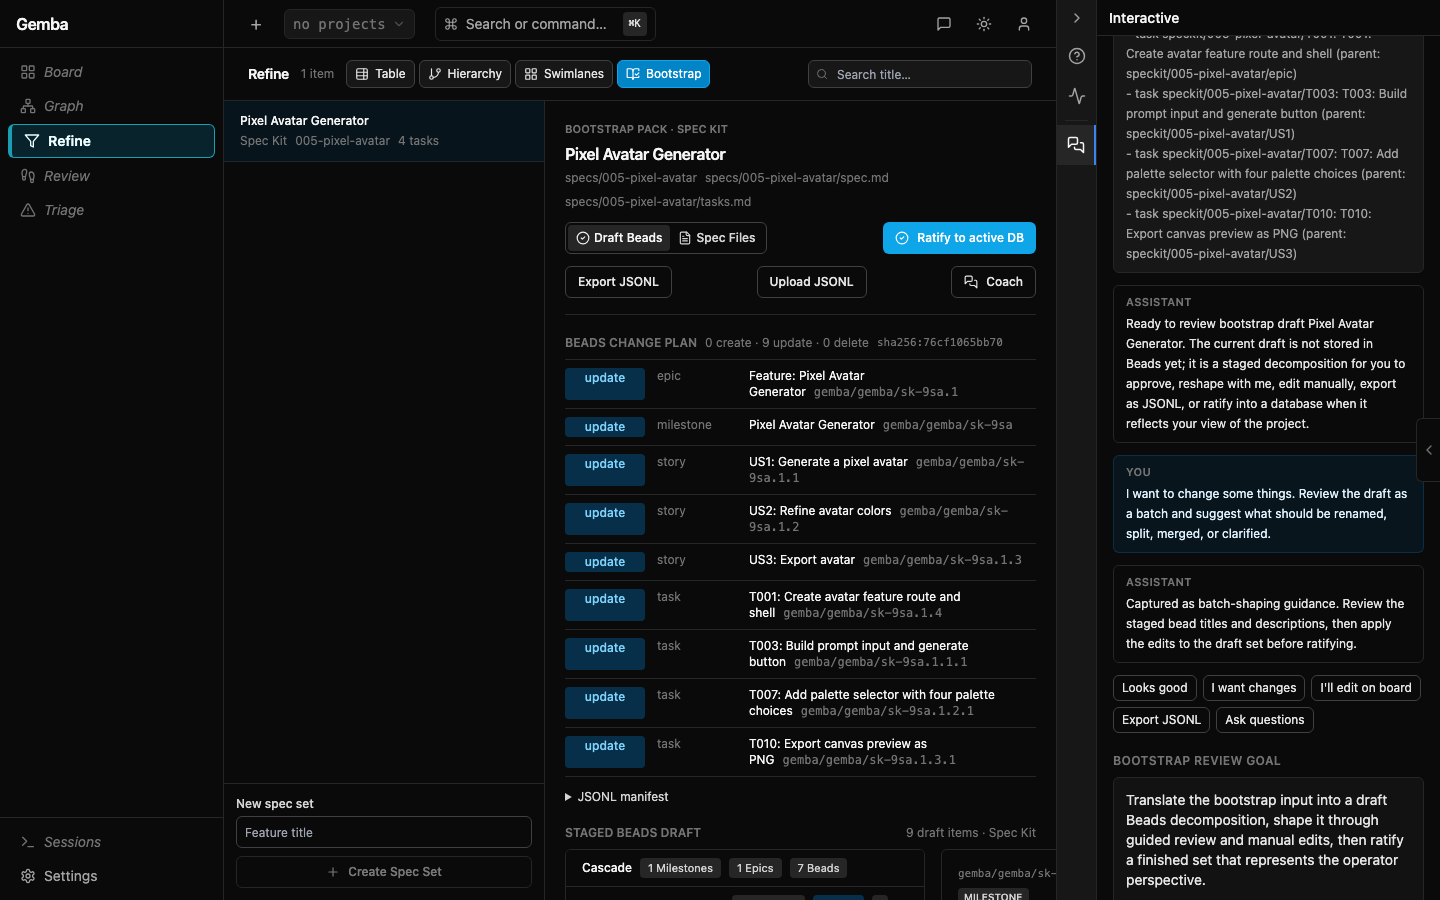
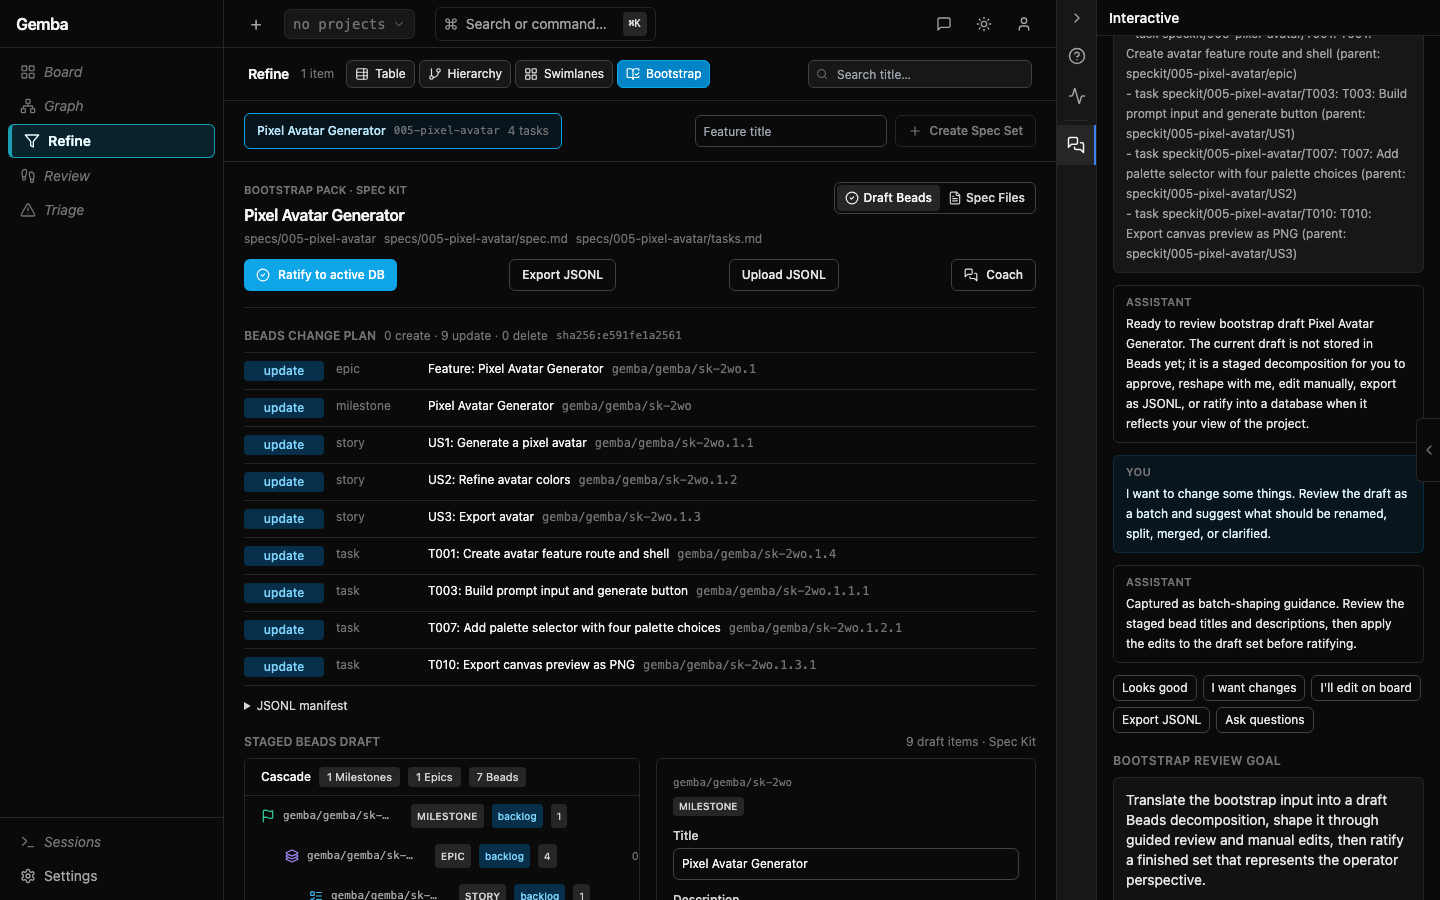
Tighten Spec Kit bootstrap layout

diff --git a/web/src/pages/RefinePage.tsx b/web/src/pages/RefinePage.tsx
@@ -619,18 +619,11 @@ function SpecKitPanel({
   if (error) return <RefineError message={error} />;
   if (!configured) {
     return (
-      <div className="grid h-full min-h-0 grid-cols-[minmax(220px,320px)_1fr] divide-x divide-neutral-200 dark:divide-neutral-800" data-testid="spec-kit-panel">
-        <SpecKitSidebar
-          features={[]}
-          selectedID=""
-          onSelect={setSelectedID}
-          newFeatureTitle={newFeatureTitle}
-          onNewFeatureTitle={setNewFeatureTitle}
-          onCreateFeature={createNewFeature}
-          creatingFeature={createFeature.isPending}
-          canCreateFeature={false}
-        />
-        <section className="flex min-h-0 items-center justify-center p-6" data-testid="spec-kit-empty">
+      <div className="h-full min-h-0" data-testid="spec-kit-panel">
+        <section
+          className="flex h-full min-h-0 items-center justify-center p-6"
+          data-testid="spec-kit-empty"
+        >
           <div className="max-w-md text-xs text-neutral-600 dark:text-neutral-300">
             <div className="text-[11px] font-semibold uppercase text-neutral-500">
               Bootstrap pack · Spec Kit
@@ -664,10 +657,10 @@ function SpecKitPanel({
 
   return (
     <div
-      className="grid h-full min-h-0 grid-cols-[minmax(220px,320px)_1fr] divide-x divide-neutral-200 dark:divide-neutral-800"
+      className="flex h-full min-h-0 flex-col"
       data-testid="spec-kit-panel"
     >
-      <SpecKitSidebar
+      <SpecKitFeatureStrip
         features={features}
         selectedID={selected?.id ?? ''}
         onSelect={setSelectedID}
@@ -679,7 +672,7 @@ function SpecKitPanel({
         canCreateFeature
       />
       {selected ? (
-        <section className="min-h-0 overflow-auto p-5" data-testid="spec-kit-detail">
+        <section className="min-h-0 flex-1 overflow-auto p-5" data-testid="spec-kit-detail">
           <header className="flex flex-wrap items-start justify-between gap-3 border-b border-neutral-200 pb-4 dark:border-neutral-800">
             <div>
               <div className="text-[11px] font-semibold uppercase text-neutral-500">
@@ -851,14 +844,14 @@ function SpecKitPanel({
           )}
         </section>
       ) : files.length > 0 ? (
-        <section className="min-h-0 overflow-auto p-5" data-testid="spec-kit-detail">
+        <section className="min-h-0 flex-1 overflow-auto p-5" data-testid="spec-kit-detail">
           <header className="border-b border-neutral-200 pb-4 dark:border-neutral-800">
             <div className="text-[11px] font-semibold uppercase text-neutral-500">
               Bootstrap pack · Spec Kit
             </div>
             <h2 className="mt-1 text-base font-semibold tracking-tight">Workspace Files</h2>
             <div className="mt-1 text-xs text-neutral-500">
-              Create a feature spec set from the left rail when you are ready to generate draft Beads.
+              Create a feature spec set from the toolbar when you are ready to generate draft Beads.
             </div>
           </header>
           <SpecKitFileEditor
@@ -880,17 +873,17 @@ function SpecKitPanel({
         </section>
       ) : (
         <section
-          className="flex min-h-0 items-center justify-center p-6 text-xs text-neutral-500"
+          className="flex min-h-0 flex-1 items-center justify-center p-6 text-xs text-neutral-500"
           data-testid="spec-kit-empty"
         >
-          No Spec Kit features match the search. Create a new spec set from the left rail.
+          No Spec Kit features match the search. Create a new spec set from the toolbar.
         </section>
       )}
     </div>
   );
 }
 
-function SpecKitSidebar({
+function SpecKitFeatureStrip({
   features,
   selectedID,
   onSelect,
@@ -912,8 +905,8 @@ function SpecKitSidebar({
   canCreateFeature: boolean;
 }) {
   return (
-    <aside className="flex min-h-0 flex-col">
-      <div className="min-h-0 flex-1 overflow-auto">
+    <div className="flex flex-wrap items-center gap-2 border-b border-neutral-200 px-5 py-3 text-xs dark:border-neutral-800">
+      <div className="flex min-w-0 flex-1 items-center gap-2 overflow-x-auto">
         {features.map((feature) => (
           <button
             key={feature.id}
@@ -922,27 +915,20 @@ function SpecKitSidebar({
             data-active={selectedID === feature.id}
             onClick={() => onSelect(feature.id)}
             className={cn(
-              'block w-full border-b border-neutral-200 px-4 py-3 text-left text-xs hover:bg-neutral-100 dark:border-neutral-800 dark:hover:bg-neutral-900',
-              selectedID === feature.id && 'bg-sky-50 dark:bg-sky-950/30'
+              'inline-flex h-9 shrink-0 items-center gap-2 rounded-md border border-neutral-300 px-3 text-left text-xs text-neutral-700 hover:bg-neutral-100 dark:border-neutral-700 dark:text-neutral-200 dark:hover:bg-neutral-900',
+              selectedID === feature.id &&
+                'border-sky-600 bg-sky-50 text-sky-800 dark:border-sky-500 dark:bg-sky-950/30 dark:text-sky-200'
             )}
           >
-            <div className="font-medium text-neutral-950 dark:text-neutral-100">
-              {feature.title}
-            </div>
-            <div className="mt-1 flex flex-wrap gap-2 text-neutral-500">
-              <span>Spec Kit</span>
-              <span>{feature.id}</span>
-              <span>{feature.task_count} tasks</span>
-              {feature.parallel_task_count > 0 && (
-                <span>{feature.parallel_task_count} parallel</span>
-              )}
-            </div>
+            <span className="max-w-[16rem] truncate font-medium">{feature.title}</span>
+            <span className="font-mono text-[11px] text-neutral-500">{feature.id}</span>
+            <span className="text-neutral-500">{feature.task_count} tasks</span>
           </button>
         ))}
       </div>
-      <div className="border-t border-neutral-200 p-3 dark:border-neutral-800">
-        <label className="block text-xs">
-          <span className="font-medium text-neutral-700 dark:text-neutral-300">New spec set</span>
+      <div className="flex shrink-0 items-center gap-2">
+        <label className="flex items-center gap-2">
+          <span className="sr-only">New spec set</span>
           <input
             data-testid="spec-kit-new-title"
             value={newFeatureTitle}
@@ -952,7 +938,7 @@ function SpecKitSidebar({
               if (e.key === 'Enter') onCreateFeature();
             }}
             placeholder="Feature title"
-            className="mt-1 h-8 w-full rounded-md border border-neutral-300 bg-white px-2 text-xs disabled:opacity-50 dark:border-neutral-700 dark:bg-neutral-950"
+            className="h-8 w-48 rounded-md border border-neutral-300 bg-white px-2 text-xs disabled:opacity-50 dark:border-neutral-700 dark:bg-neutral-950"
           />
         </label>
         <button
@@ -960,16 +946,16 @@ function SpecKitSidebar({
           data-testid="spec-kit-create-feature"
           disabled={!canCreateFeature || !newFeatureTitle.trim() || creatingFeature}
           onClick={onCreateFeature}
-          className="mt-2 inline-flex h-8 w-full items-center justify-center gap-2 rounded-md border border-neutral-300 px-3 text-xs font-medium text-neutral-700 hover:bg-neutral-100 disabled:cursor-wait disabled:opacity-50 dark:border-neutral-700 dark:text-neutral-200 dark:hover:bg-neutral-900"
+          className="inline-flex h-8 items-center justify-center gap-2 rounded-md border border-neutral-300 px-3 text-xs font-medium text-neutral-700 hover:bg-neutral-100 disabled:cursor-wait disabled:opacity-50 dark:border-neutral-700 dark:text-neutral-200 dark:hover:bg-neutral-900"
         >
           <Plus className="h-3.5 w-3.5" />
           Create Spec Set
         </button>
         {createError && (
-          <p className="mt-2 text-xs text-rose-700 dark:text-rose-300">{createError}</p>
+          <p className="max-w-64 text-xs text-rose-700 dark:text-rose-300">{createError}</p>
         )}
       </div>
-    </aside>
+    </div>
   );
 }
 

diff --git a/docs/getting-started/working-with-spec-kit.md b/docs/getting-started/working-with-spec-kit.md
@@ -142,8 +142,9 @@ This lets you introduce Spec Kit incrementally:
 ## Editing Spec Kit In Gemba
 
 The Bootstrap tab is also a small Spec Kit workspace editor. The left
-rail lists feature spec sets. The **Spec Files** tab opens the selected
-feature's files across the top of the editor, followed by shared
+toolbar lists feature spec sets and includes **Create Spec Set**. The
+**Spec Files** tab opens the selected feature's files across the top of
+the editor, followed by shared
 `.specify/` templates and constitution files. Save writes the edited
 text back into the project worktree; the Beads draft remains staged
 until you ratify it separately.
